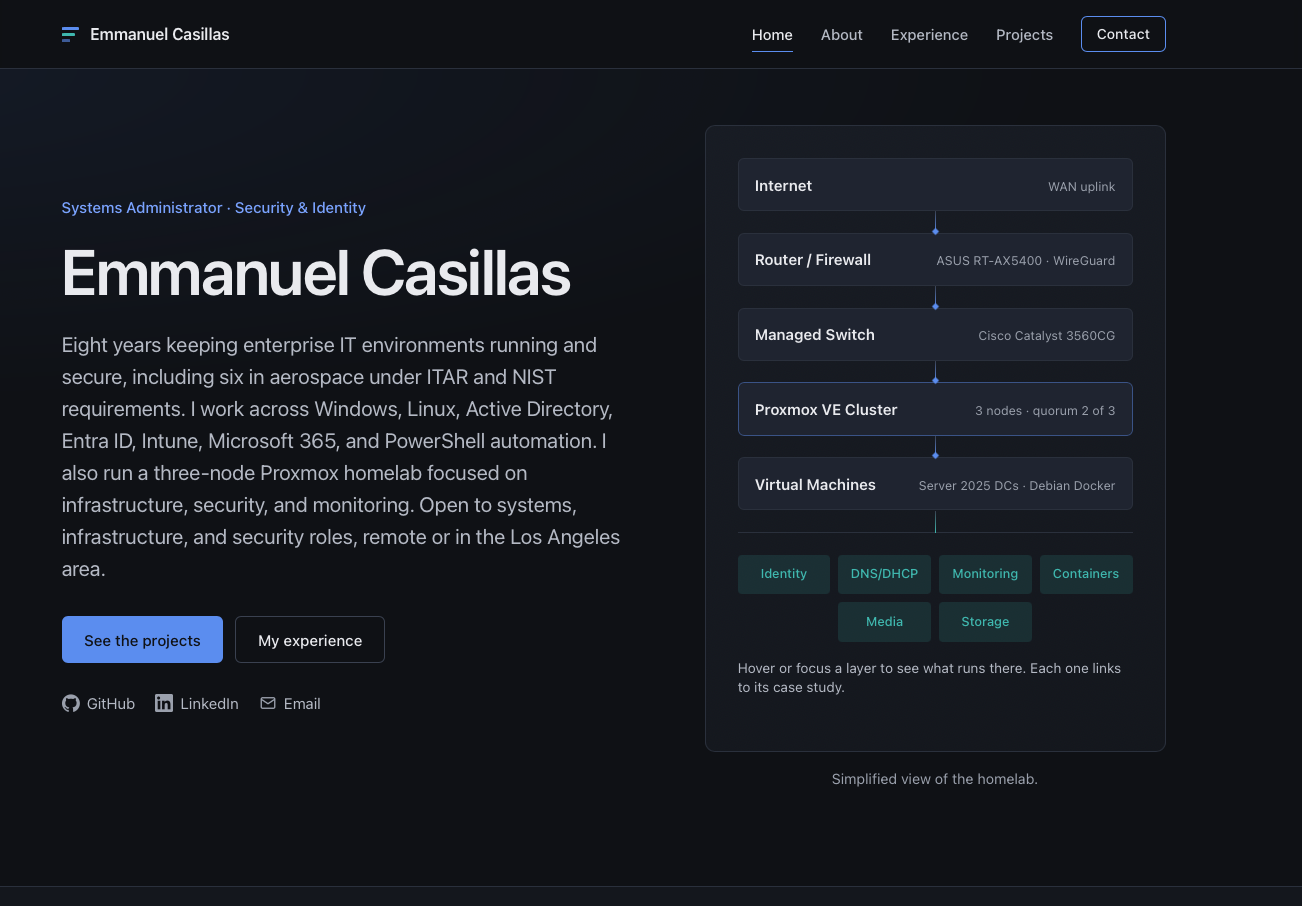
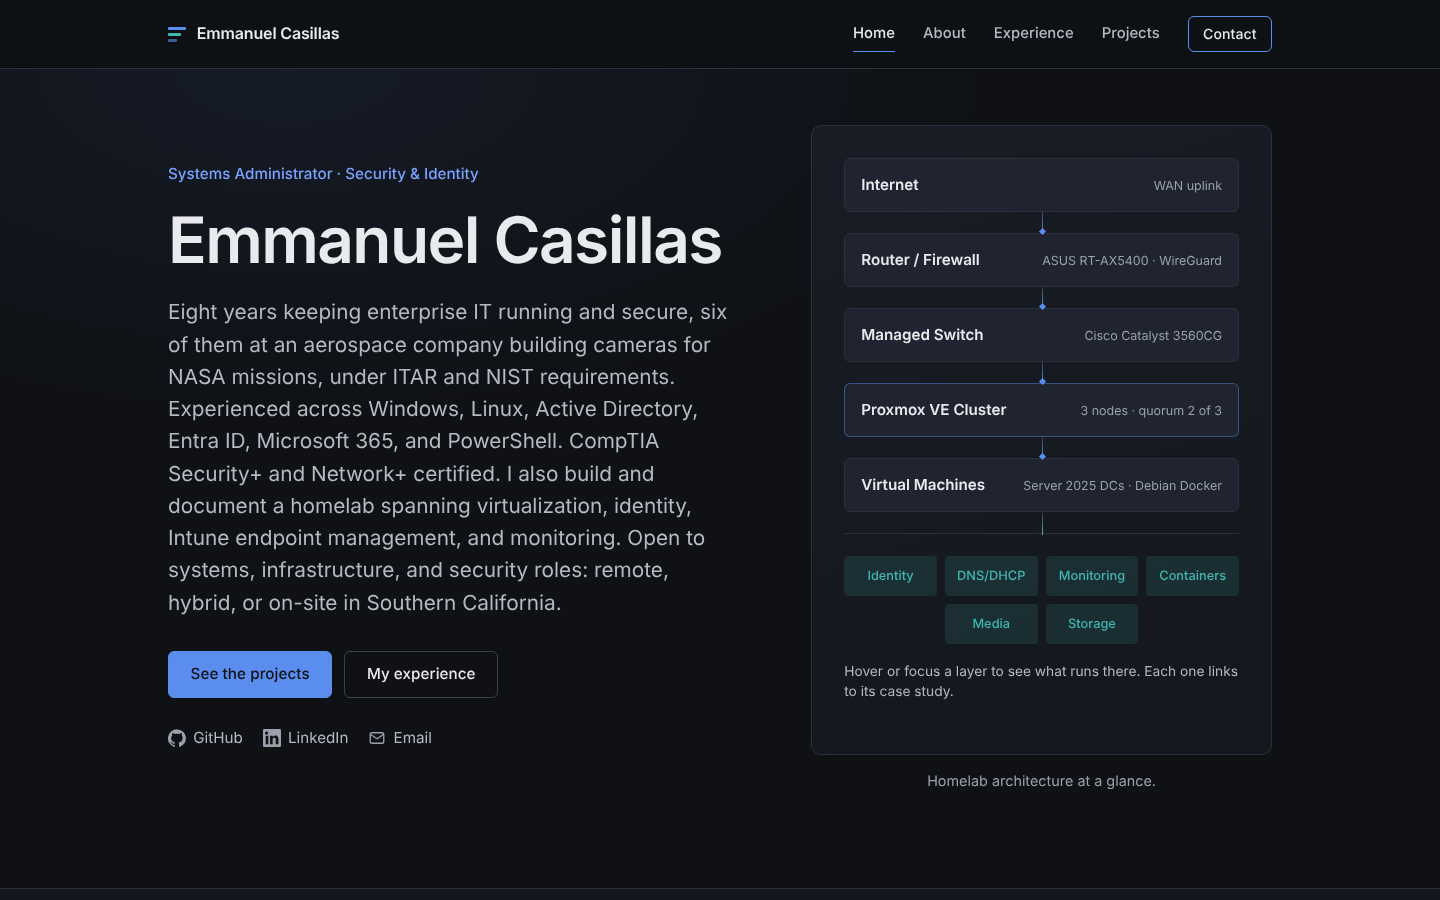
Split Web Platform lab into portfolio and EC-Builds docs site; refresh screenshots

diff --git a/projects/web-platform/portfolio-site.md b/projects/web-platform/portfolio-site.md
@@ -10,6 +10,14 @@ Git-driven CI/CD deployment of a personal portfolio website to **Cloudflare Work
 
 The application source repository is private. This project documents the infrastructure, deployment workflow, and security configuration using sanitized examples.
 
+![Portfolio home page](./diagrams/site-homepage.png)
+
+*Home page, served from Cloudflare Workers.*
+
+![Portfolio projects page](./diagrams/site-projects.png)
+
+*Projects page. Each project is written up as a case study.*
+
 
 ## How this was built
 
@@ -39,11 +47,6 @@ Local working copy
 - **Assets only.** The Worker has no script; it serves the static build. Security headers come from `_headers`; requests for paths that don't exist get the custom 404 page.
 - **Zone settings live in Cloudflare, not the repo.** That covers DNS, TLS, Bot Fight Mode, Page Shield, Web Analytics and the injected-script features below.
 - **Production is checked after every meaningful deploy:** headers, TLS and the CSP console.
-
-
-<img src="./diagrams/site-homepage.png" alt="Portfolio Website Homepage" width="800">
-
-*Production homepage served from Cloudflare Workers.*
 
 
 ## Security controls
@@ -103,6 +106,14 @@ Local working copy
 - **Headers and CSP:** zero violations locally across all pages; re-verified in production; securityheaders.com A+
 - **Accessibility:** automated axe-core scan (WCAG 2.1 AA) across 17 pages at desktop and phone widths; findings remediated and re-scanned to **0**
 - **Post-deploy checks:** structured data, share preview and sitemap submission confirmed
+
+<img src="./diagrams/site-mobile.png" alt="Portfolio home page at phone width" width="300">
+
+*Home page at phone width. The accessibility scan covered both desktop and phone layouts.*
+
+![Web Platform case study page](./diagrams/site-case-study.png)
+
+*The case study page on the portfolio, with the validation summary.*
 
 ## Known limits and next steps
 
